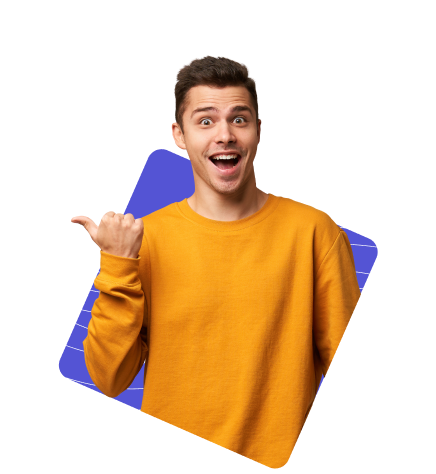
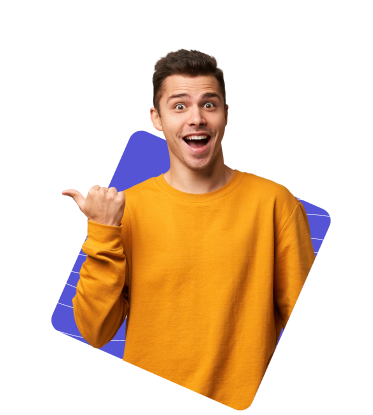
try some code

diff --git a/index.html b/index.html
@@ -31,16 +31,15 @@
             </div>
             <div class="mobile-menu navbar_items">
                 <ul class="flex">
-                    <li><a href="">Home</a></li>
-                    <li><a href="">Home</a></li>
-                    <li><a href="">Home</a></li>
-                    <li><a href="">Home</a></li>
-                    <li><a href="">Home</a></li>
+                    <li><a href="" class="active">Home</a></li>
+                    <li><a href="">Services</a></li>
+                    <li><a href="">Our Project</a></li>
+                    <li><a href="">About us</a></li>
                 </ul>
             </div>
             <div class="button">
                 <form action="">
-                    <button class="btn btn1">contact</button>
+                    <button class="btn btn1">contact us</button>
                 </form>
             </div>
             <div class="menu_btn">
@@ -48,6 +47,43 @@
             </div>
         </div>
     </nav>
+
+    <!--================== MAIN SECTION DESIGN ======================= -->
+
+    <main>
+        <!--================== HERO SECTION DESIGN ======================= -->
+
+        <section class="hero">
+            <div class="container grid hero_grid-content">
+                <div class="hero-content">
+                    <h1 class="hero_title">
+                        Build Your <br> Awesome <br> Platform
+                    </h1>
+                    <p style="margin:20px 0;" class="para">Enver studio is a digital studio that offers several services such as UI/UX Design to developers, we will provide the best service for those of you who use our services.</p>
+                    <button class="btn btn2 hero_btn">Our Services <i class='bx bx-right-arrow-alt'></i></button>
+                </div>
+                <div class="hero_img-content">
+                    <div class="hero-img">
+                        <img style="width:60%" src="Assets/img/Group 162532.png" alt="" class="img-fluid">
+                    </div>
+                </div>
+            </div>
+        </section>
+
+        <!--================== ABOUT VIDEO SECTION DESIGN ======================= -->
+        <section class="about">
+            <div class="container">
+                <div class="flex flex-between" style="align-items: flex-start;">
+                    <h2 class="section_title">
+                        Why Enver Is The <br> Best Choice?
+                    </h2>
+                    <p class="para" style="width:70%">Watch this one minute video so you understand why you should use our services!</p>
+                </div>
+            </div>
+        </section>
+    </main>
+    
+
 
 
 

diff --git a/Assets/css/style.css b/Assets/css/style.css
@@ -11,7 +11,7 @@
 
 body{
     font-family: 'Nunito Sans', sans-serif;
-    color:#fff !important;
+    color:#fff ;
     background-color: var(--bg-clr);
 }
 
@@ -39,14 +39,21 @@ body{
 
 
 .container{
-    width:95%;
+    width:90%;
     margin:0 auto;
 }
 
+i{
+    line-height: 0;
+    display: inline-block;
+}
 .grid{
     display: grid;
 }
-
+.img-fluid{
+    width: 100%;
+    height: auto;
+}
 .btn{
     outline:none;
     border:none;
@@ -119,29 +126,71 @@ body{
 .flex-between{
     justify-content: space-between;
 }
+
+section{
+    padding: 25px 0;
+}
 /*============================== END COMMON WORK ======================== */
 
 /*============================== DESIGN FOR NAVBAR ======================== */
 
 .navbar{
+    position: relative;
     min-width: 100%;
     padding:34px 0;
 }
 
 .logo-part a{
    column-gap: 4px;
+   color:#fff;
 }
+
 .navbar_items ul{
     column-gap: 26px;
 }
+
 .navbar_items ul li a{
     font-size: var(--small-text);
     font-weight: 600;
+    color:#fff;
+    text-transform: capitalize;
+    transition: .3s;
 }
+.navbar_items ul li a:hover,
+.navbar_items ul li a.active{
+    color:var(--nav-link-active);
+}
+
+.button form .btn1{
+    transition: .3s;
+}
+
+.button form .btn1:hover{
+    border-color:var(--nav-link-active);
+    background-color: var(--nav-link-active);
+}
+
 
 .menu_btn{
     position: fixed;
     top:38px;
     right:30px;
     display: none;
+}
+
+
+/*============================== DESIGN FOR NAVBAR ======================== */
+
+.hero_grid-content{
+    grid-template-columns: 1fr 1.8fr;
+    align-items: center;
+}
+
+.hero_btn i{
+    font-size: 20px;
+    margin-left: 4px;
+    transform: rotate(-18deg);
+}
+.hero_img-content .hero-img{
+    text-align: center;
 }
